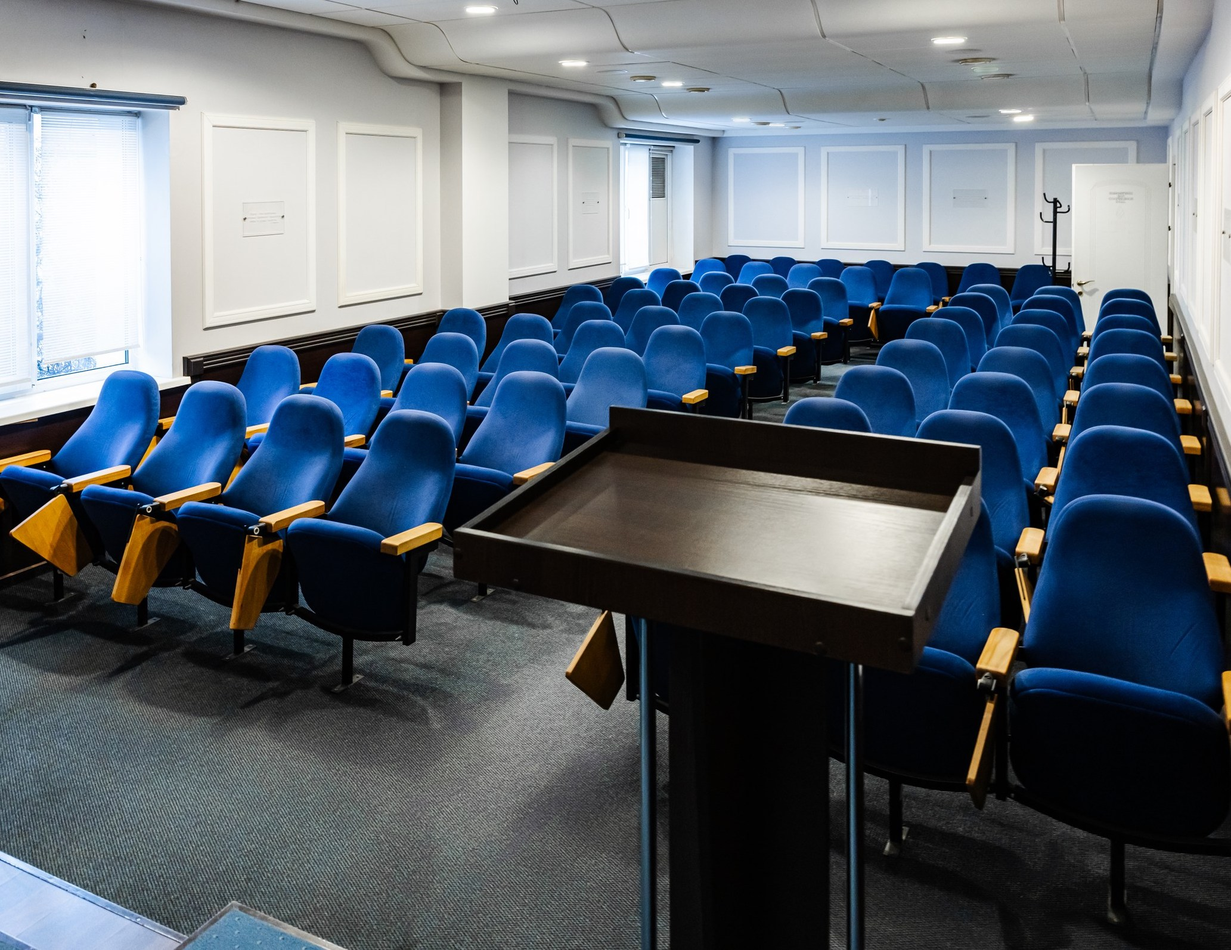
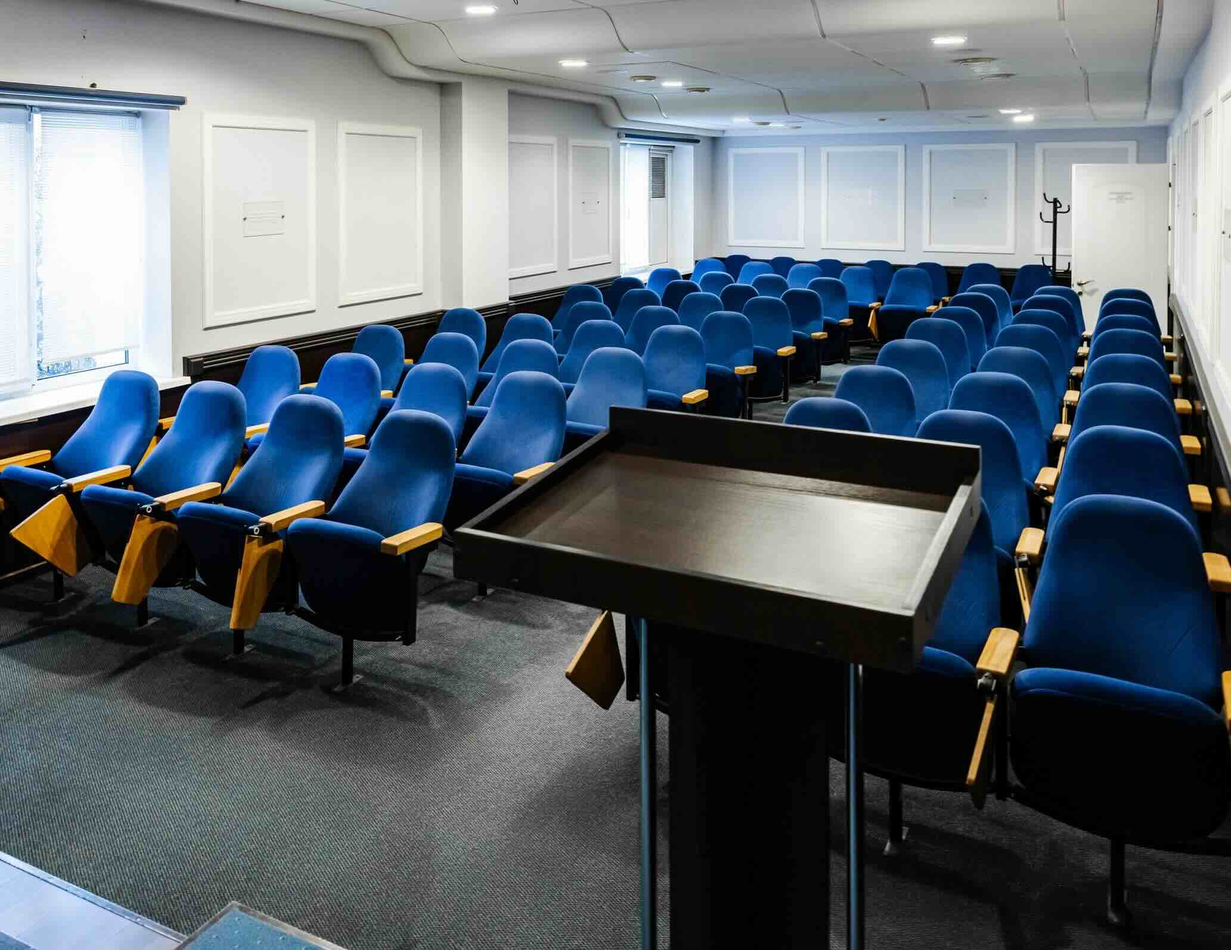
сжатие фоток

diff --git a/public/assets/styles/index.css b/public/assets/styles/index.css
@@ -254,7 +254,7 @@ ul {
   background-position: center;
   background-size: cover;
   background-repeat: no-repeat;
-  background-image: url(/assets/images/intro-image.png);
+  background-image: url(/assets/images/intro-image.jpeg);
 }
 
 .intro-section__video::before {

diff --git a/resources/views/index.blade.php b/resources/views/index.blade.php
@@ -574,7 +574,7 @@
                     </div>
                     <div class="wealness-section__accordion-content">
                         <div class="wealness-section__accordion-content-descr">
-                            <h4>Бассейн размером NхN метров.</h4>
+                            <h4>Бассейн в нашей SPA-зоне.</h4>
                             <ul>
                                 <li>Регулярно чистим чашу и обновляем воду;</li>
                                 <li>На лежаках рядом с бассейном можно отдохнуть после купания.</li>
